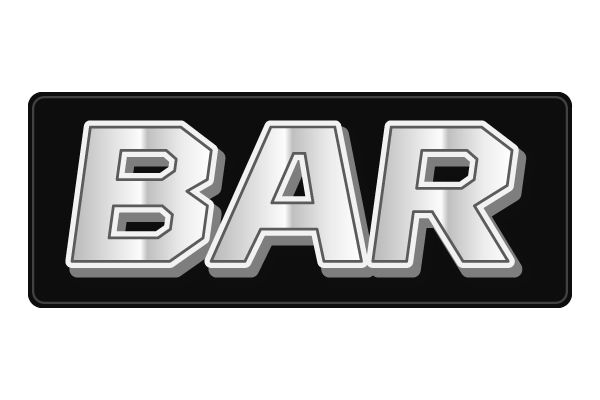
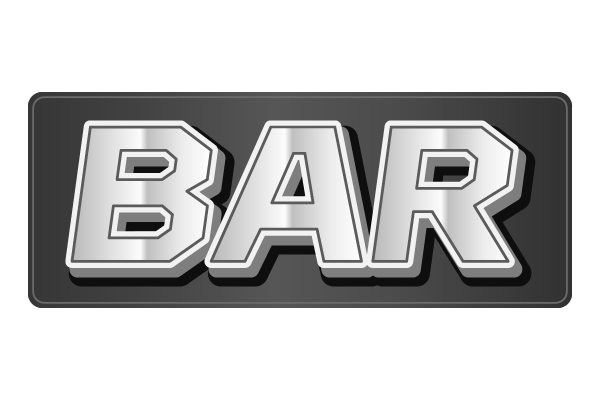
スロットのBAR図柄を差し替える

Changed region(s): [[0.03, 0.21, 0.96, 0.78], [0.72, 0.42, 0.78, 0.45]]

diff --git a/frontend/src/GamblePlay.tsx b/frontend/src/GamblePlay.tsx
@@ -59,7 +59,7 @@ function Finish({ gamble, busy, error, prepared, onFinish }: PlayProps) {
 const slotSymbols: Record<string, { file: string; label: string }> = {
   ベル: { file: 'bell.png', label: 'ベル' },
   スイカ: { file: 'watermelon.png', label: 'スイカ' },
-  REG: { file: 'bar.png', label: 'BAR' },
+  REG: { file: 'bar.png?v=2', label: 'BAR' },
   BIG: { file: 'seven.png', label: '7' },
 };
 

diff --git a/docs/STATUS.md b/docs/STATUS.md
@@ -9,6 +9,7 @@
 
 ## スロットの図柄
 
+- 新しいBAR画像を同梱し、画像URLに版番号を付けた。
 - ベル・スイカ・BAR・7をプロジェクト内のPNGから表示する。393×852pxのPlaywrightで、リールを止めると各PNGが読み込まれることを4種すべて確認。
 
 ## 初心者向けのギャンブル

diff --git a/docs/CHANGELOG.md b/docs/CHANGELOG.md
@@ -9,6 +9,7 @@
 
 ## スロットの図柄を画像に変更
 
+- 更新されたBARの図柄に差し替えた。
 - 持ち込みの4図柄をプロジェクトへコピーし、停止したリールに表示する。
 
 ## 初心者向けのギャンブルを追加

diff --git a/docs/TODO.md b/docs/TODO.md
@@ -8,6 +8,7 @@
 
 ## スロットの図柄
 
+- [x] 更新されたBAR画像に差し替え。
 - [x] 4図柄をプロジェクトに同梱し、ブラウザで表示を確認。
 
 ## 初心者向けのギャンブル
